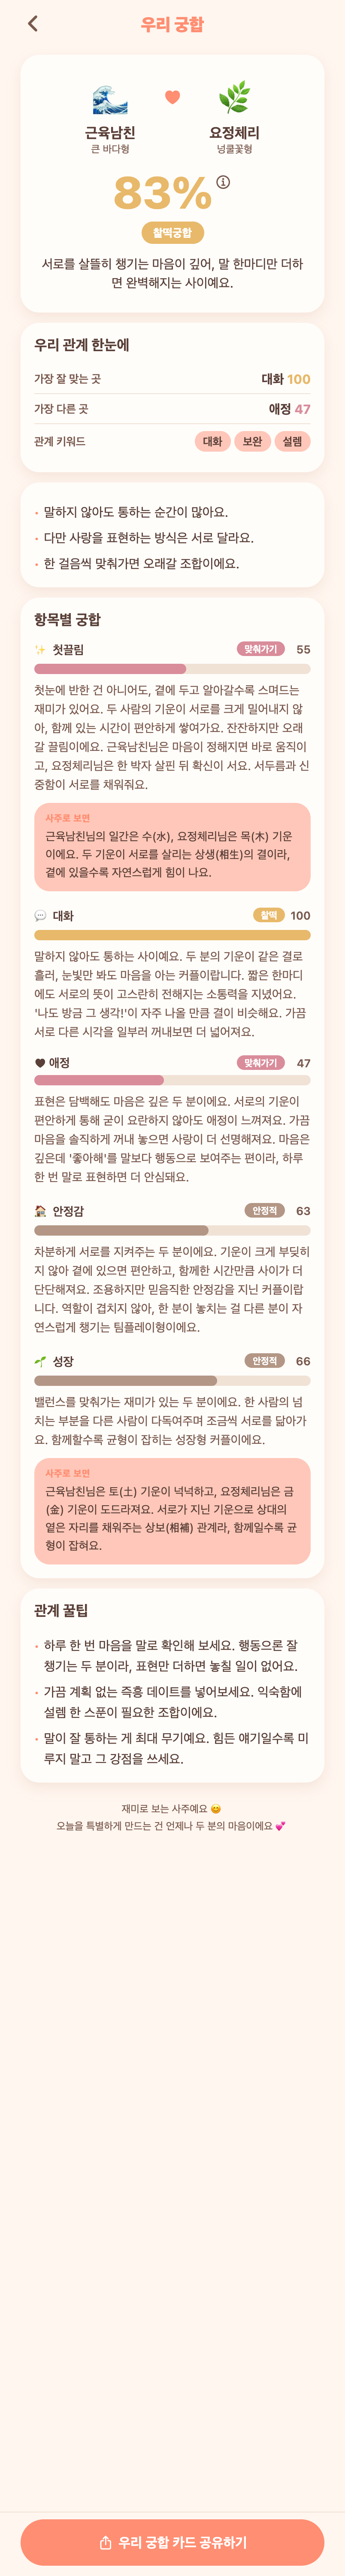
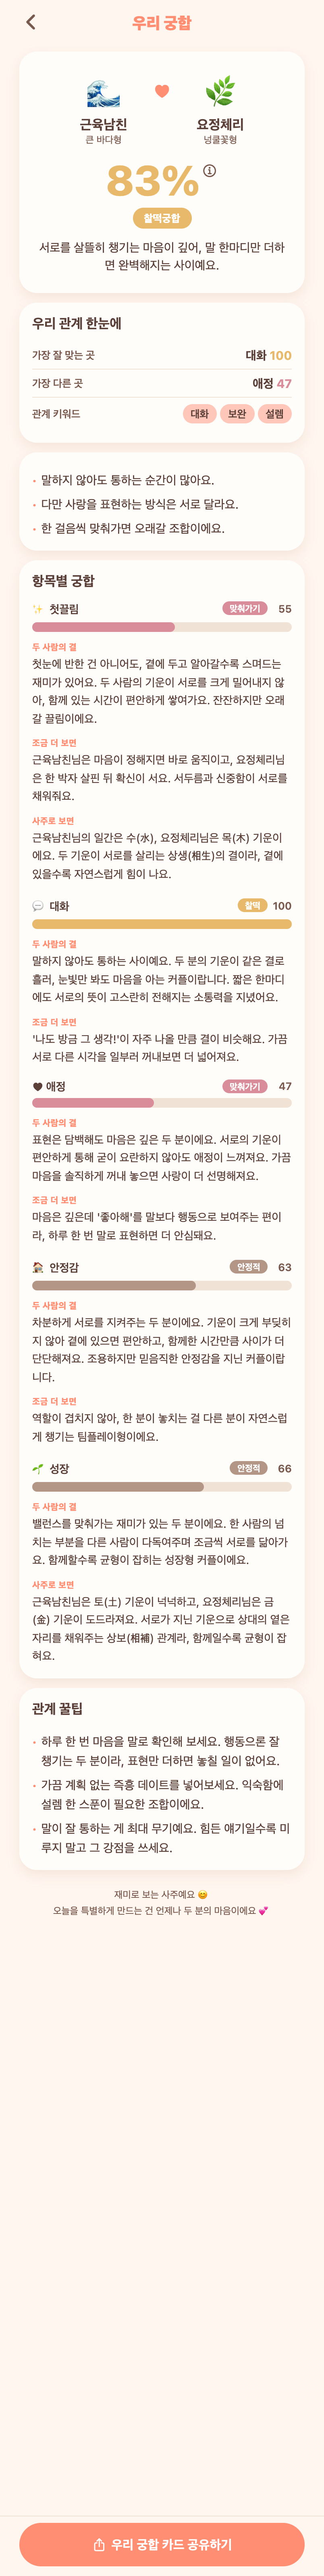
우리 궁합 설명 소제목 구조화(전체 문구 유지, 배경색 없음)
- 항목 설명을 두 사람의 결/조금 더 보면/사주로 보면 소제목으로 분리(코럴 라벨, 색면 없음)
- 백엔드 CategoryScore/CatView에 behavior 필드 분리(comment/behavior/sajuNote)
- 실제 Expo Web 캡처로 검증, devlog 62 + 캡처 갱신(60/61)

Changed region(s): [[0.0933, 0.0312, 0.9017, 0.748], [0.2799, 0.9662, 0.7152, 0.9973]]

diff --git a/frontend/app/saju/couple.tsx b/frontend/app/saju/couple.tsx
@@ -194,6 +194,7 @@ export default function SajuCouplePage() {
               <Text style={styles.cardHead}>항목별 궁합</Text>
               <View style={{ gap: spacing.lg }}>
                 {data!.categories.map((cat) => {
+                  const multi = !!(cat.behavior || cat.sajuNote);
                   return (
                     <View key={cat.key}>
                       <View style={styles.catHead}>
@@ -215,12 +216,23 @@ export default function SajuCouplePage() {
                           ]}
                         />
                       </View>
-                      {cat.comment ? <Text style={styles.catComment}>{cat.comment}</Text> : null}
+                      {multi && cat.comment ? (
+                        <Text style={[styles.subLabel, { color: c.primary }]}>두 사람의 결</Text>
+                      ) : null}
+                      {cat.comment ? (
+                        <Text style={[styles.catComment, !multi && { marginTop: 8 }]}>{cat.comment}</Text>
+                      ) : null}
+                      {cat.behavior ? (
+                        <>
+                          <Text style={[styles.subLabel, { color: c.primary }]}>조금 더 보면</Text>
+                          <Text style={styles.catComment}>{cat.behavior}</Text>
+                        </>
+                      ) : null}
                       {cat.sajuNote ? (
-                        <View style={[styles.sajuBox, { backgroundColor: c.coralSofter }]}>
-                          <Text style={[styles.sajuBoxLabel, { color: c.primary }]}>사주로 보면</Text>
-                          <Text style={styles.sajuBoxText}>{cat.sajuNote}</Text>
-                        </View>
+                        <>
+                          <Text style={[styles.subLabel, { color: c.primary }]}>사주로 보면</Text>
+                          <Text style={styles.catComment}>{cat.sajuNote}</Text>
+                        </>
                       ) : null}
                     </View>
                   );
@@ -333,10 +345,8 @@ const styles = StyleSheet.create({
   catPill: { borderRadius: radius.pill, paddingHorizontal: 9, paddingVertical: 2 },
   catPillText: { ...font.caption, color: colors.white, fontWeight: '700', fontSize: 11 },
   catScore: { ...font.label, color: colors.subText, minWidth: 24, textAlign: 'right' },
-  catComment: { color: colors.subText, marginTop: 8, lineHeight: 22, fontSize: 14 },
-  sajuBox: { borderRadius: radius.md, paddingHorizontal: 13, paddingVertical: 11, marginTop: 10 },
-  sajuBoxLabel: { fontSize: 11, fontWeight: '800', letterSpacing: 0.3, marginBottom: 5 },
-  sajuBoxText: { color: colors.text, fontSize: 13.5, lineHeight: 21 },
+  catComment: { color: colors.text, marginTop: 0, lineHeight: 22.5, fontSize: 14 },
+  subLabel: { fontSize: 11, fontWeight: '800', letterSpacing: 0.3, marginTop: 12, marginBottom: 4 },
   moreBtn: { flexDirection: 'row', alignItems: 'center', gap: 2, marginTop: 6 },
   moreText: { ...font.label, fontWeight: '700' },
 

diff --git a/frontend/lib/api.ts b/frontend/lib/api.ts
@@ -761,8 +761,10 @@ export type SajuCoupleCategory = {
   key: string;
   name: string;
   score: number; // 0~100
-  comment: string;
-  /** 오행(사주) 근거 — 있으면 '사주로 보면' 박스로 분리 노출. */
+  comment: string; // 기본 설명('두 사람의 결')
+  /** 행동/성향 부연('조금 더 보면'). 없을 수 있음. */
+  behavior?: string;
+  /** 오행(사주) 근거('사주로 보면'). 없을 수 있음. */
   sajuNote?: string;
 };
 

diff --git a/backend/src/main/java/com/today/saju/SajuCompatibility.java b/backend/src/main/java/com/today/saju/SajuCompatibility.java
@@ -103,7 +103,8 @@ public final class SajuCompatibility {
     private static int grade(int s) { return s >= 70 ? 2 : (s >= 45 ? 1 : 0); }
 
     // ── 결과 DTO ──
-    public record CategoryScore(String key, String name, int score, int grade, String comment, String sajuNote) {}
+    public record CategoryScore(String key, String name, int score, int grade,
+                                String comment, String behavior, String sajuNote) {}
     public record Result(int percent, List<CategoryScore> categories, String totalComment,
                          List<String> badges, String relComment, String strongestKey, String weakestKey,
                          List<String> keywords, List<String> summaryLines, List<String> tips, boolean hasHour) {}
@@ -250,9 +251,9 @@ public final class SajuCompatibility {
     private static CategoryScore cat(String key, String name, int score, String[][] templates, long seed, String sig, String sajuNote) {
         int g = grade(score);
         String base = clean(SajuUtil.pick(templates[g], seed, key.hashCode()));
-        String comment = (sig == null || sig.isBlank()) ? base : base + " " + sig;
+        String behavior = (sig == null || sig.isBlank()) ? null : sig;
         String note = (sajuNote == null || sajuNote.isBlank()) ? null : sajuNote;
-        return new CategoryScore(key, name, score, g, comment, note);
+        return new CategoryScore(key, name, score, g, base, behavior, note);
     }
 
     // 방향 결정(결정론): 일간 양(짝수)=바로 움직이는 쪽, 일지 음(홀수)=혼자 정리하는 쪽, KE_FWD=a가 브레이크.

diff --git a/backend/src/main/java/com/today/saju/SajuDtos.java b/backend/src/main/java/com/today/saju/SajuDtos.java
@@ -26,7 +26,7 @@ public class SajuDtos {
     ) {}
 
     /** 궁합 카테고리 한 줄. */
-    public record CatView(String key, String name, int score, int grade, String comment, String sajuNote) {}
+    public record CatView(String key, String name, int score, int grade, String comment, String behavior, String sajuNote) {}
 
     /** 커플 궁합 결과(계산 불가면 canCompute=false + reason). */
     public record CoupleResult(

diff --git a/backend/src/main/java/com/today/saju/SajuService.java b/backend/src/main/java/com/today/saju/SajuService.java
@@ -165,7 +165,7 @@ public class SajuService {
                 sa, sb, me.getBirthday(), partner.getBirthday(), me.getNickname(), partner.getNickname());
 
         List<CatView> cats = new ArrayList<>();
-        for (var c : r.categories()) cats.add(new CatView(c.key(), c.name(), c.score(), c.grade(), c.comment(), c.sajuNote()));
+        for (var c : r.categories()) cats.add(new CatView(c.key(), c.name(), c.score(), c.grade(), c.comment(), c.behavior(), c.sajuNote()));
 
         SajuTemplates.DayMaster meDm = SajuTemplates.dayMaster(sa.dayStem());
         SajuTemplates.DayMaster pDm = SajuTemplates.dayMaster(sb.dayStem());

diff --git a/docs/devlog/62-saju-subheadings.md b/docs/devlog/62-saju-subheadings.md
@@ -1,0 +1,21 @@
+# 62 · 우리 궁합 설명 소제목 구조화
+
+가독성 피드백을 반영해 항목 설명을 **소제목 3덩이로 구조화**했다. 문장은 하나도 줄이지
+않고(전체 문구 유지), 배치만 바꿔 밀도를 낮췄다.
+
+## 구조
+각 항목 설명을 최대 3개의 소제목으로 나눈다(코럴 라벨, 배경색 없음 — 담백하게).
+- **두 사람의 결** — 기본 설명
+- **조금 더 보면** — 성향·행동 부연 (있을 때만)
+- **사주로 보면** — 오행 근거 (있을 때만)
+
+'사주로 보면'도 다른 소제목과 동일한 스타일(색면 없이 라벨+본문)로 통일했다.
+설명이 한 덩어리뿐이면 소제목 없이 문단만 보인다.
+
+## 서버
+`CategoryScore`/`CatView`를 comment(기본)·behavior(부연)·sajuNote(오행)로 분리해 내려준다.
+프론트가 각 조각에 소제목을 붙여 렌더.
+
+![우리 궁합 소제목 구조](captures/62-saju-subheadings.png)
+
+*실제 화면 — 코럴 소제목으로 구조화(배경색 없음)*